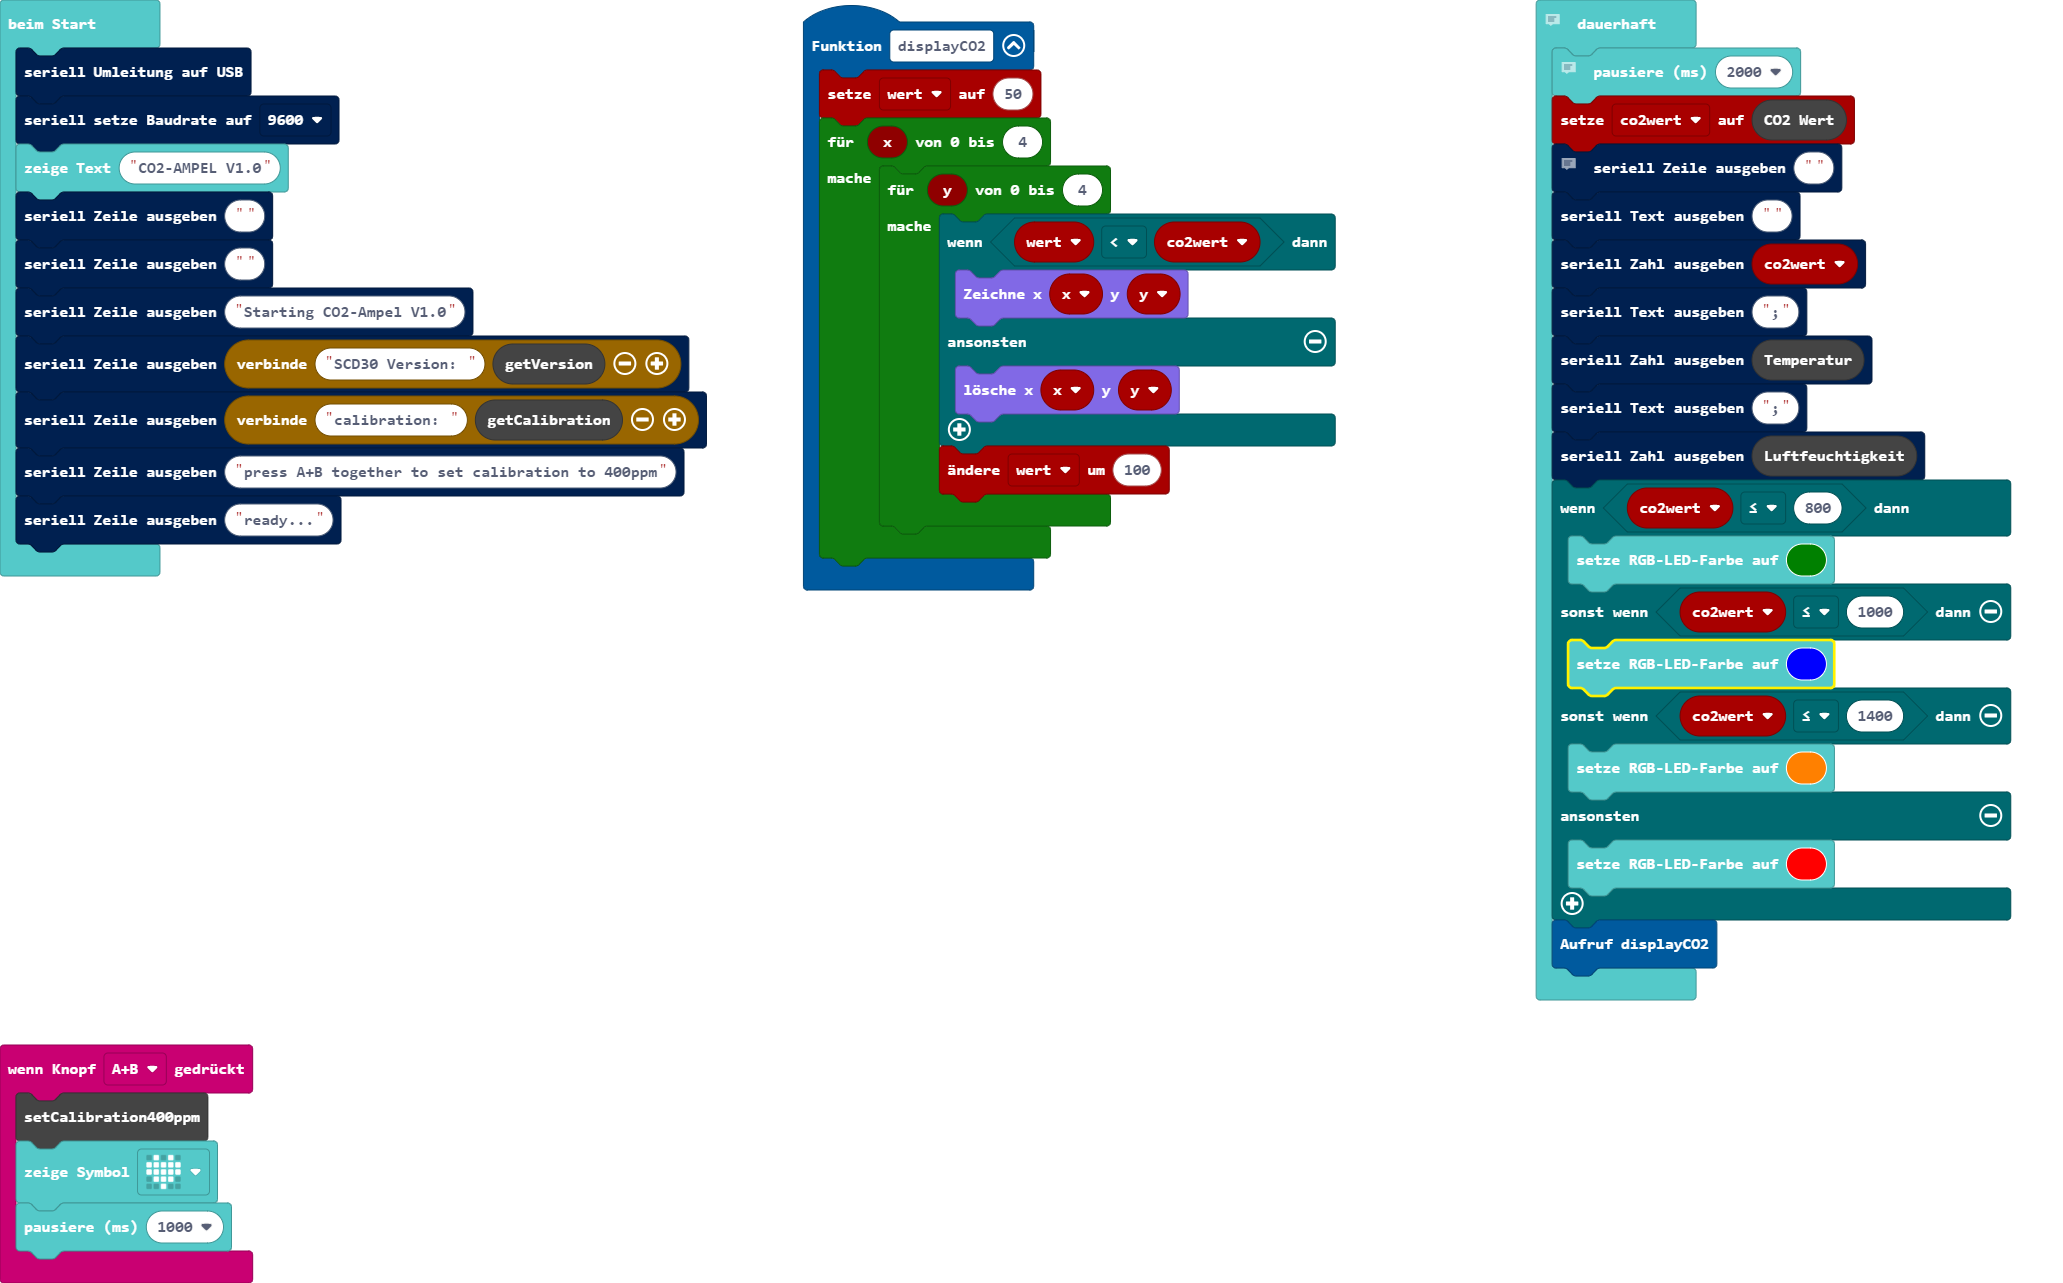
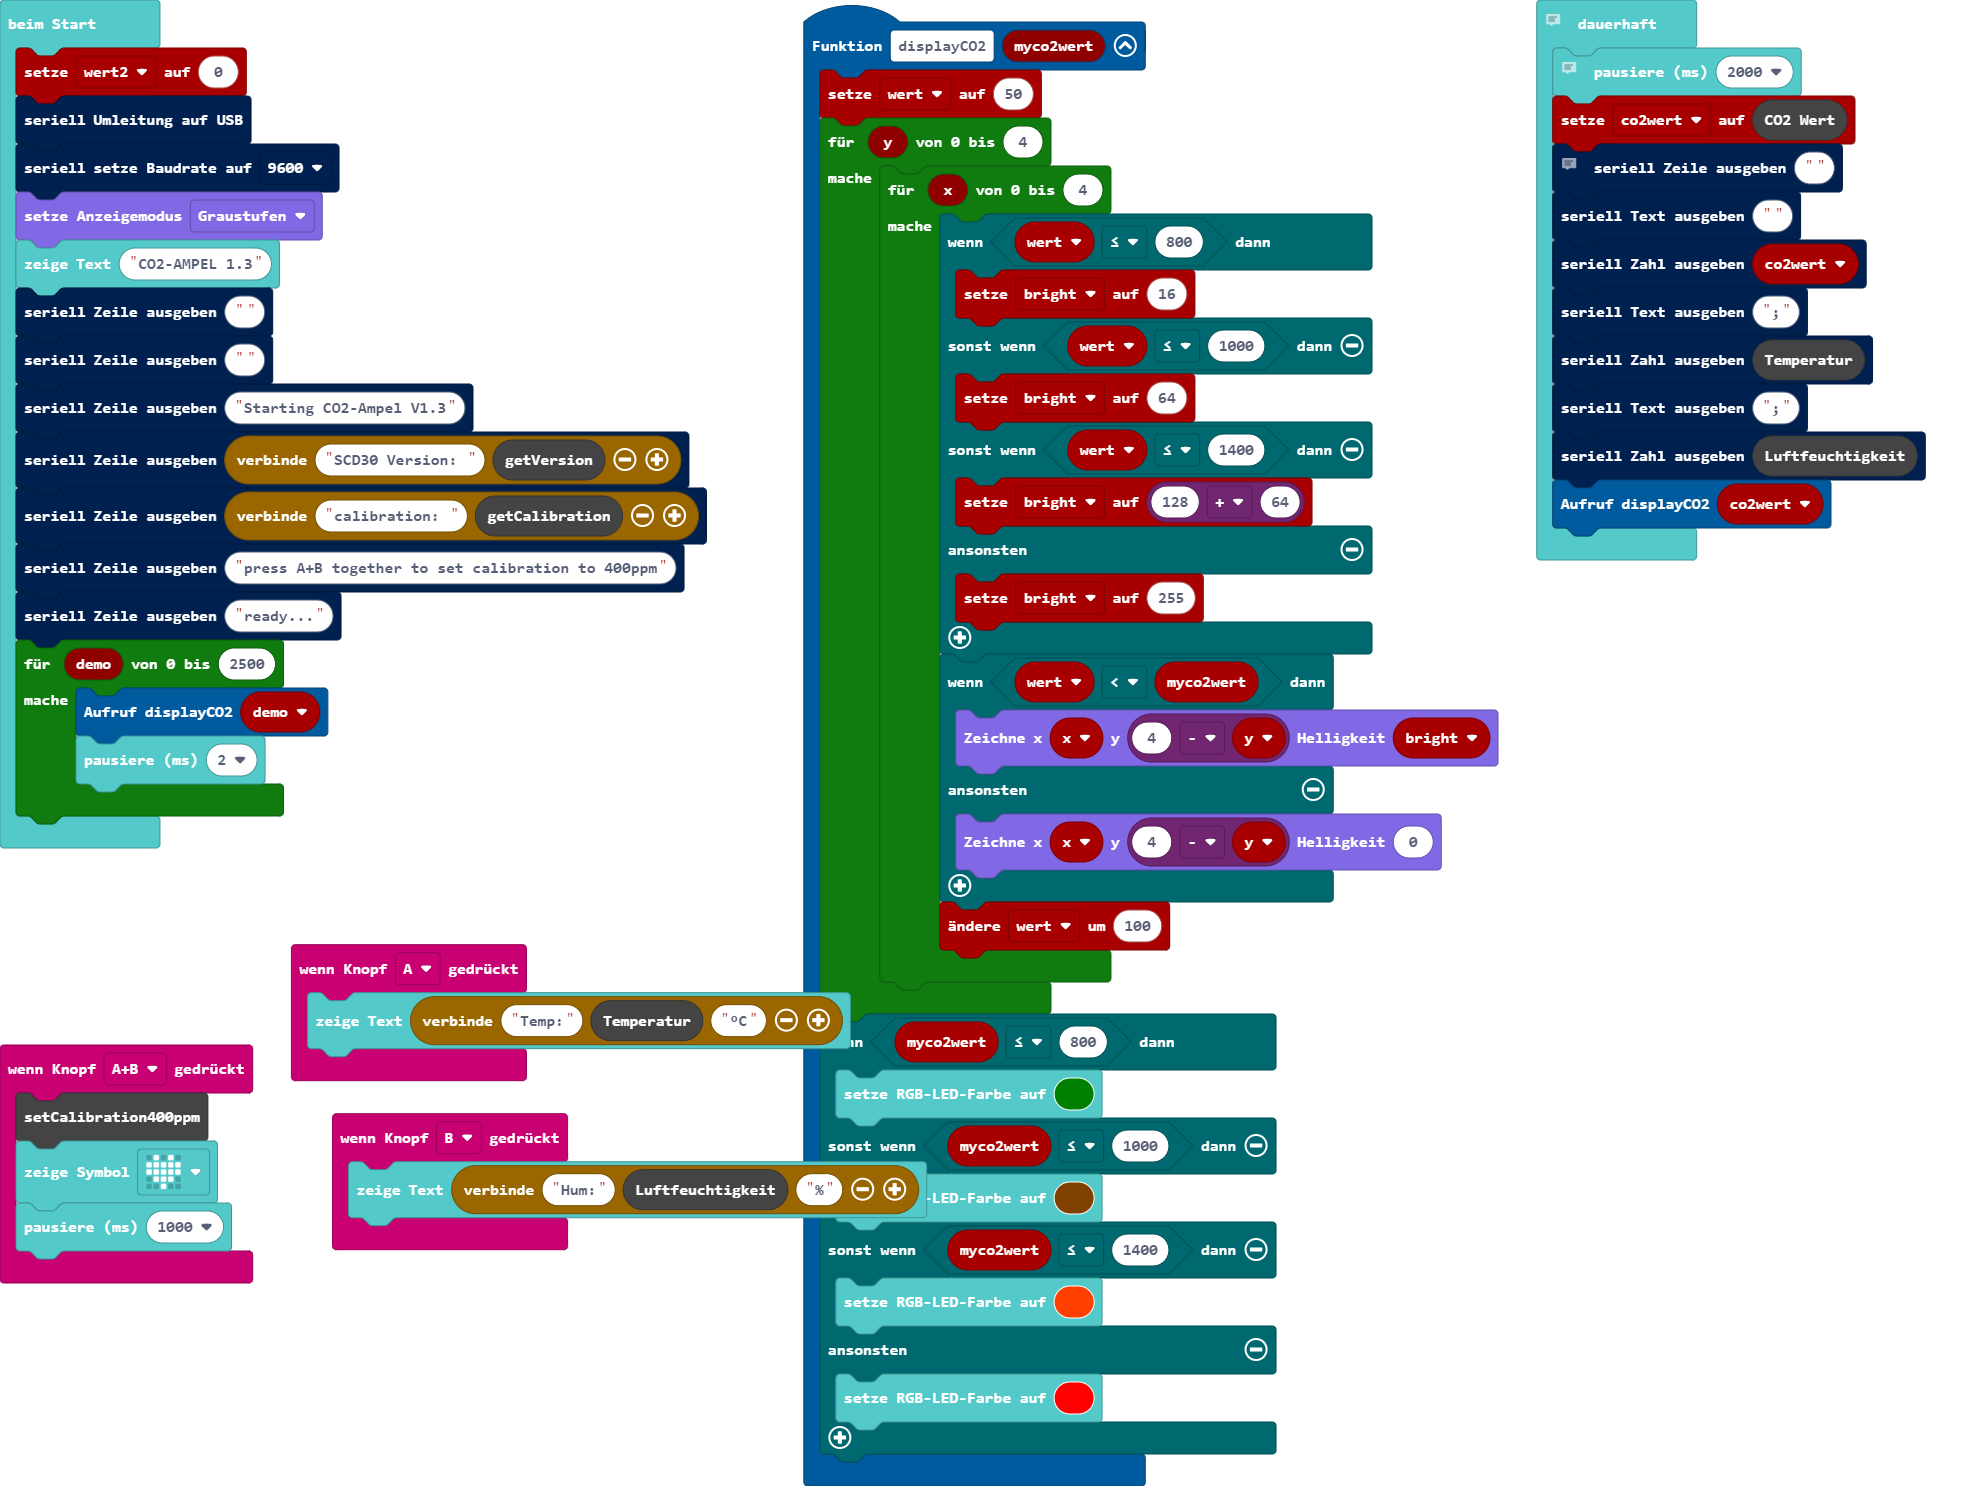
V1.4 - Temp und Hum Ausgabe ergänzt

diff --git a/main.ts b/main.ts
@@ -1,55 +1,69 @@
+input.onButtonPressed(Button.A, function () {
+    muteDisplay = true
+    basic.showString("Temp:" + SCD30.readTemperature() + "°C")
+    muteDisplay = false
+})
 input.onButtonPressed(Button.AB, function () {
+    muteDisplay = true
     SCD30.setCalibration400ppm()
     basic.showIcon(IconNames.Heart)
     basic.pause(1000)
+    muteDisplay = false
 })
-function displayCO2 (myco2wert : number) {
-    let wert = 50
-    for (let y = 0; y <= 4; y++) {
-        for (let x = 0; x <= 4; x++) {
-            let bright = 0
-            if (wert <= 800) {
-                bright=0x10
-            } else if (wert <= 1000) {
-                bright=0x40
-            } else if (wert <= 1400) {
-                bright=0x80+0x40
-            } else {
-                bright=0xff
+input.onButtonPressed(Button.B, function () {
+    muteDisplay = true
+    basic.showString("Hum:" + SCD30.readHumidity() + "%")
+    muteDisplay = false
+})
+function displayCO2 (myco2wert: number) {
+    if (!muteDisplay) {
+        wert = 50
+        for (let y = 0; y <= 4; y++) {
+            for (let x = 0; x <= 4; x++) {
+                if (wert <= 800) {
+                    bright = 16
+                } else if (wert <= 1000) {
+                    bright = 64
+                } else if (wert <= 1400) {
+                    bright = 128 + 64
+                } else {
+                    bright = 255
+                }
+                if (wert < myco2wert) {
+                    led.plotBrightness(x, 4 - y, bright)
+                } else {
+                    led.plotBrightness(x, 4 - y, 0)
+                }
+                wert += 100
             }
-            if (wert < myco2wert) {
-                led.plotBrightness(x, 4-y, bright)
-            } else {
-                led.plotBrightness(x, 4-y,0)
-            }
-            wert += 100
+        }
+        if (myco2wert <= 800) {
+            basic.setLedColor(0x008000)
+        } else if (myco2wert <= 1000) {
+            basic.setLedColor(0x804000)
+        } else if (myco2wert <= 1400) {
+            basic.setLedColor(0xff4000)
+        } else {
+            basic.setLedColor(0xff0000)
         }
     }
-    if (myco2wert <= 800) {
-        basic.setLedColor(0x008000)
-    } else if (myco2wert <= 1000) {
-        basic.setLedColor(0x804000)
-    } else if (myco2wert <= 1400) {
-        basic.setLedColor(0xff4000)
-    } else {
-        basic.setLedColor(0xff0000)
-    }
 }
-
+let muteDisplay = false
 let co2wert = 0
+let bright = 0
 let wert = 0
+let wert2 = 0
 serial.redirectToUSB()
 serial.setBaudRate(BaudRate.BaudRate9600)
 led.setDisplayMode(DisplayMode.Greyscale)
-basic.showString("CO2-AMPEL 1.3")
+basic.showString("CO2-AMPEL 1.4")
 serial.writeLine("")
 serial.writeLine("")
-serial.writeLine("Starting CO2-Ampel V1.3")
+serial.writeLine("Starting CO2-Ampel V1.4")
 serial.writeLine("SCD30 Version: " + SCD30.getVersion())
 serial.writeLine("calibration: " + SCD30.getCalibration())
 serial.writeLine("press A+B together to set calibration to 400ppm")
 serial.writeLine("ready...")
-
 for (let demo = 0; demo <= 2500; demo++) {
     displayCO2(demo)
     basic.pause(2)

diff --git a/README.md b/README.md
@@ -1,14 +1,21 @@
 
 > Diese Seite bei [https://rdmueller.github.io/co2-ampel/](https://rdmueller.github.io/co2-ampel/) öffnen
 
-## Als Erweiterung verwenden
+Dieses Projekt implementiert eine CO2-Ampel mit [Calliope mini](https://calliope.cc) und SCD30 CO2-Sensor in der Groovy version.
 
-Dieses Repository kann als **Erweiterung** in MakeCode hinzugefügt werden.
+Siehe auch https://www.umwelt-campus.de/forschung/projekte/iot-werkstatt/ideen-zur-corona-krise
 
-* öffne [https://makecode.calliope.cc/](https://makecode.calliope.cc/)
-* klicke auf **Neues Projekt**
-* klicke auf **Erweiterungen** unter dem Zahnrad-Menü
-* nach **https://github.com/rdmueller/co2-ampel** suchen und importieren
+Zum Kalibrieren des Sensors sollte er ca. 10 Minuten frische Lust sehen, so dass er einen Wert von 400ppm anzeigen müsste.
+Anschliessend wird er auf 400ppm kalibriert, indem A+B zusammen gedrück werden.
+
+Der CO2-Wert wird auf dem 5x5 Display angezeigt, wobei eine LED 100ppm entsprechen (der Wert wird kaufmännisch gerundet dargestellt).
+
+Die Temperatur wird mit Druck auf A, die Luftfeuchtigkeit mit Druck auf B angezeigt.
+Die Temperatur ist jedoch nicht kalibriert.
+
+Die Messwerte werden auch über USB als serielle Daten (9600 Baud) ausgegeben, so dass sie aufgezeichnet werden können.
+
+Ein Video steht unter https://twitter.com/RalfDMueller/status/1332226297997692928 zur Verfügung.
 
 ## Dieses Projekt bearbeiten ![Build Status Abzeichen](https://github.com/rdmueller/co2-ampel/workflows/MakeCode/badge.svg)
 
@@ -23,7 +30,7 @@ Um dieses Repository in MakeCode zu bearbeiten.
 Dieses Bild zeigt den Blockcode vom letzten Commit im Master an.
 Die Aktualisierung dieses Bildes kann einige Minuten dauern.
 
-![Eine gerenderte Ansicht der Blöcke](https://github.com/rdmueller/co2-ampel/raw/master/.github/makecode/blocks.png)
+![Eine gerenderte Ansicht der Blöcke](https://github.com/rdmueller/co2-ampel/raw/v2/.github/makecode/blocks.png)
 
 #### Metadaten (verwendet für Suche, Rendering)
 
